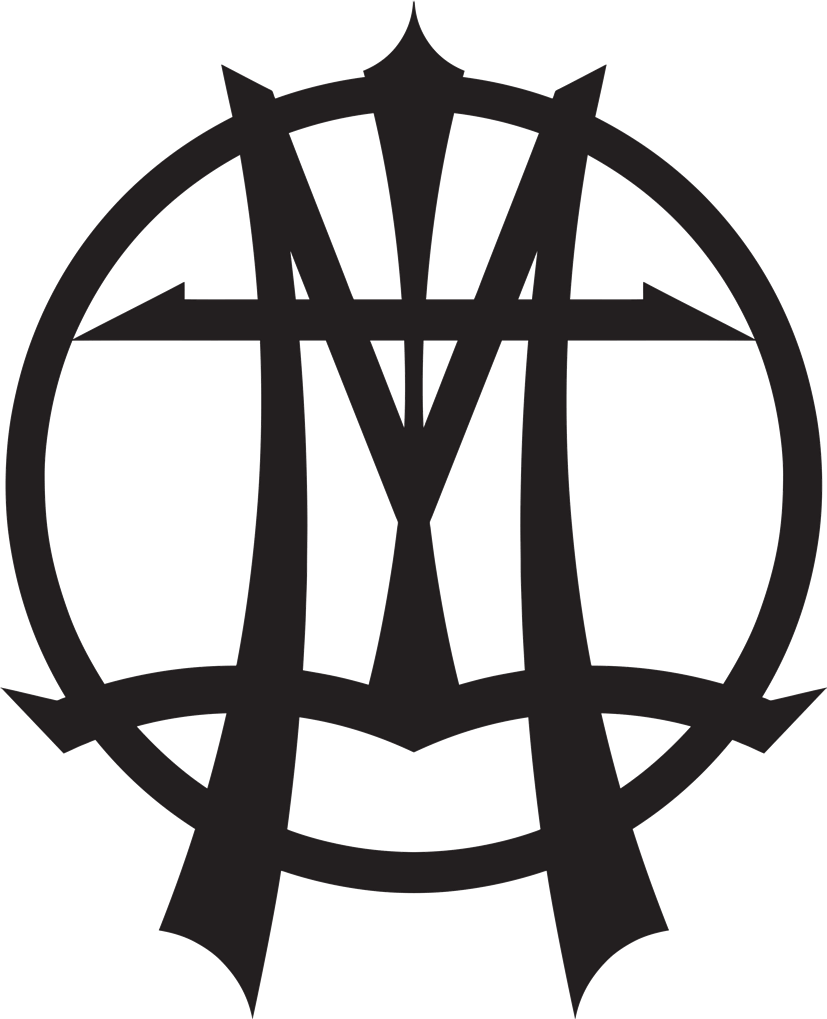
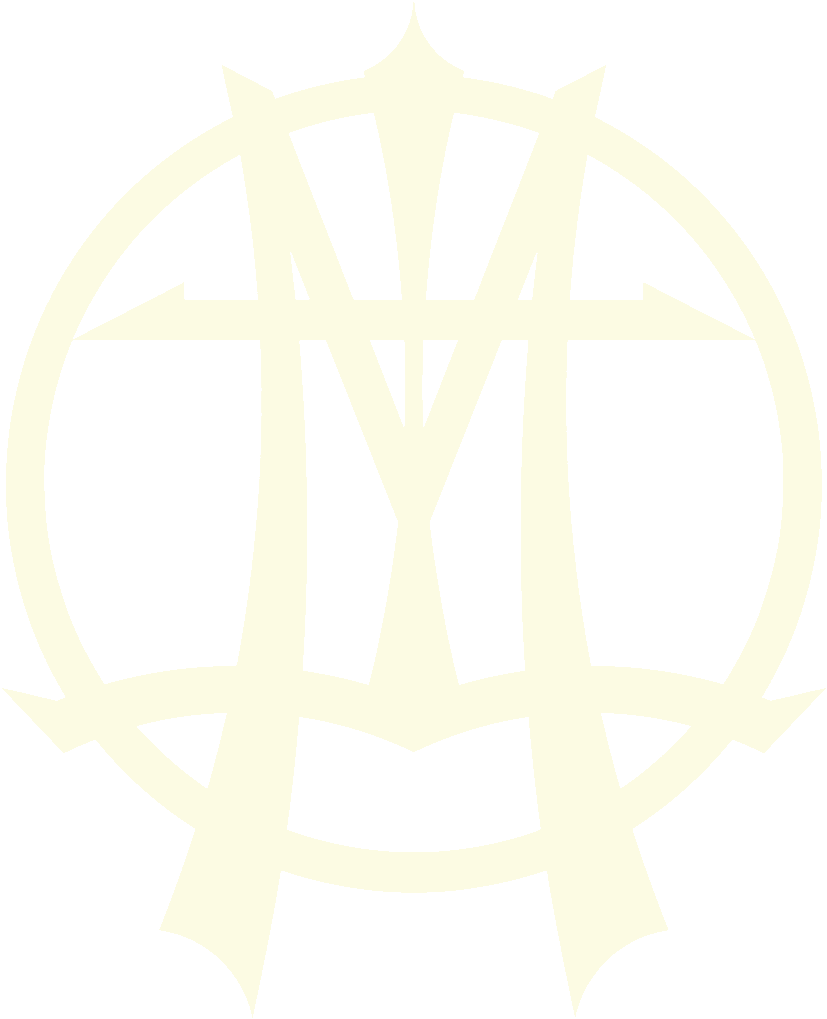
vanilla creme color

diff --git a/css/styles.css b/css/styles.css
@@ -8,7 +8,7 @@ p {
 	font-family: 'Open Sans', sans-serif;
   text-transform: none;
 	font-weight: lighter;
-  color: white;
+  color: #FCFBE3;
 }
 
 
@@ -30,10 +30,10 @@ h1 {
 }
 h2 {
   font-family: 'Covered By Your Grace', cursive;
-  color: white;
+  color: #FCFBE3;
 }
 h1, h3, h4 {
-	color: #f2f2f2;
+	color: #FCFBE3;
 	font-weight: normal;
 	text-align: center;
   letter-spacing: 0.1em;
@@ -195,7 +195,7 @@ max-height: 810px;
 
 .socialbtn{
     padding-left: 2px !important;
-    border:3px solid #FFF;
+    border:3px solid #FCFBE3;
     text-align: center;
     line-height: 1.8em;  
     width: 50px;
@@ -207,7 +207,7 @@ max-height: 810px;
   
 
 .fa {
-	color: #f2f2f2;
+	color: #FCFBE3;
 }
 
 .mobilesocial {
@@ -360,6 +360,7 @@ font-family: Oswald;
 	padding-top: 25px;
   padding-left: 10px;
   padding-right: 10px;
+  color: #FCFBE3;
 }
 
 .addpad {
@@ -715,7 +716,7 @@ ol, ul {
     }
     .section1aMobile {
       padding-bottom: 200px;
-      color: #fff;
+      color: #FCFBE3;
       font-weight: bold;
     }
     .footer, #myVideo, .mute { 
@@ -762,7 +763,7 @@ ol, ul {
 
 .spinner > div {
   z-index: 999999;
-  background-color: white;
+  background-color: #FCFBE3;
   height: 100%;
   width: 6px;
   display: inline-block;

diff --git a/index.html b/index.html
@@ -676,7 +676,7 @@
 					<div class="col-lg-4 col-sm-12">
 						<form method="post" action="myform.php">
 							<div class="col-lg-12">
-							<h3 class="leftalign">Email Sign Up</h3>
+							<h3>Email Sign Up</h3>
 								<label for="InputEmail"><h4>Email address</h4></label>
 								<input type="email" class="form-control" id="InputEmail" placeholder="Email" name="Email">
 
